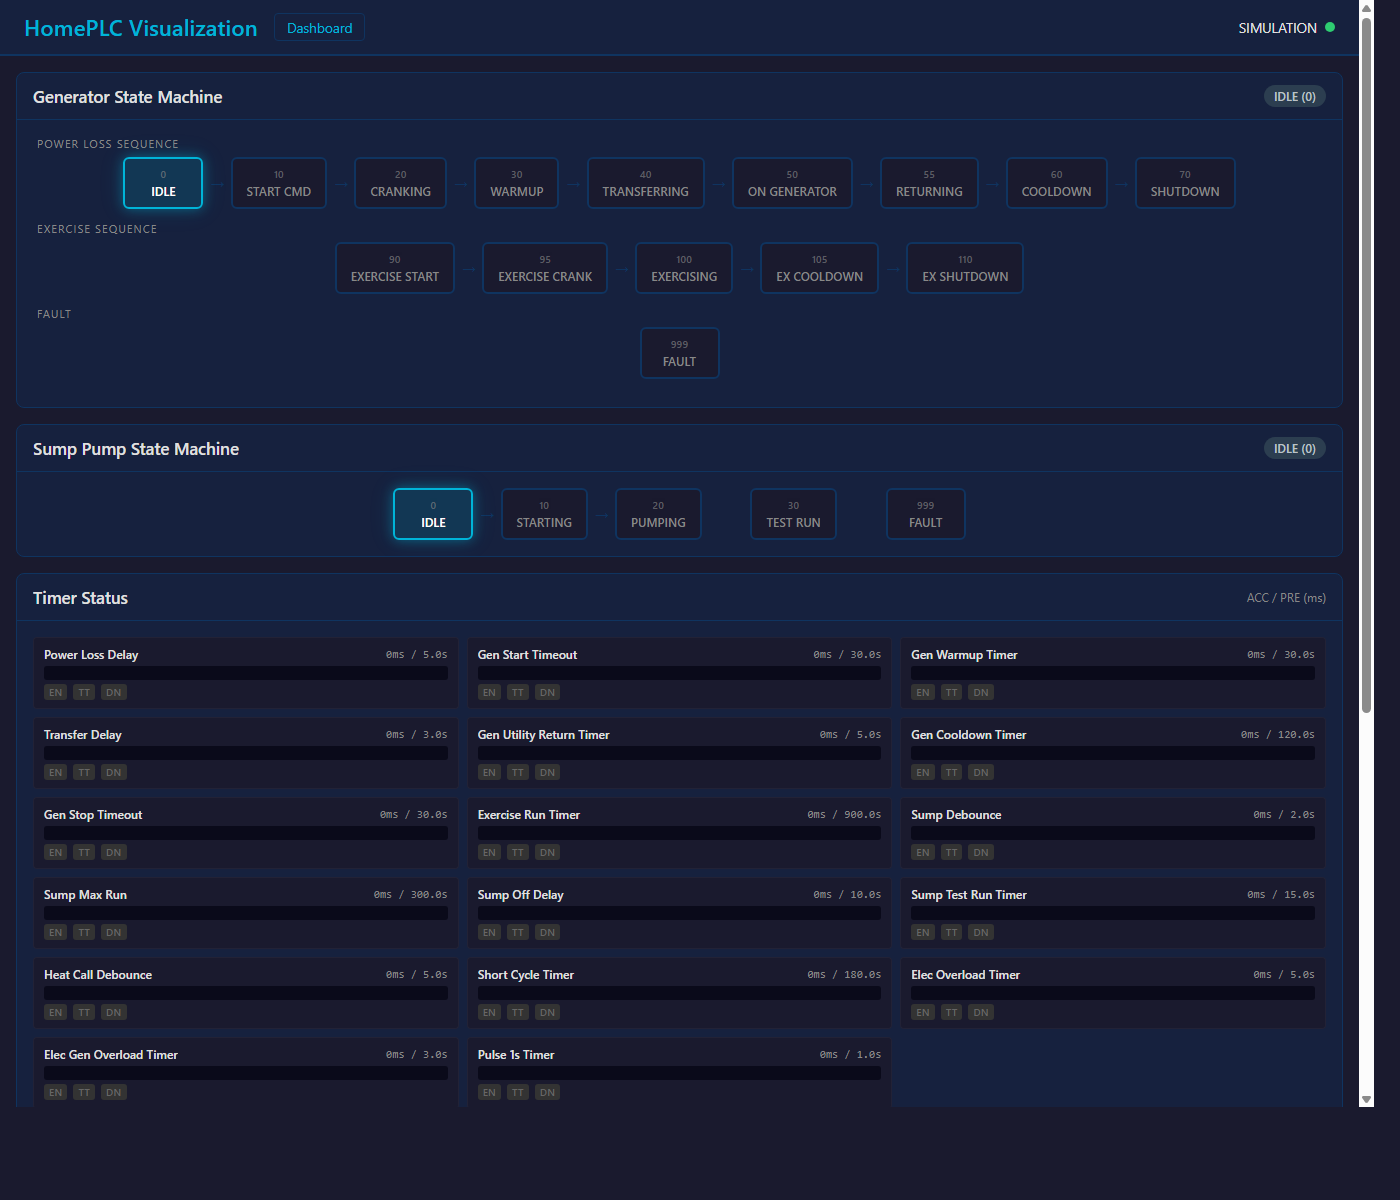
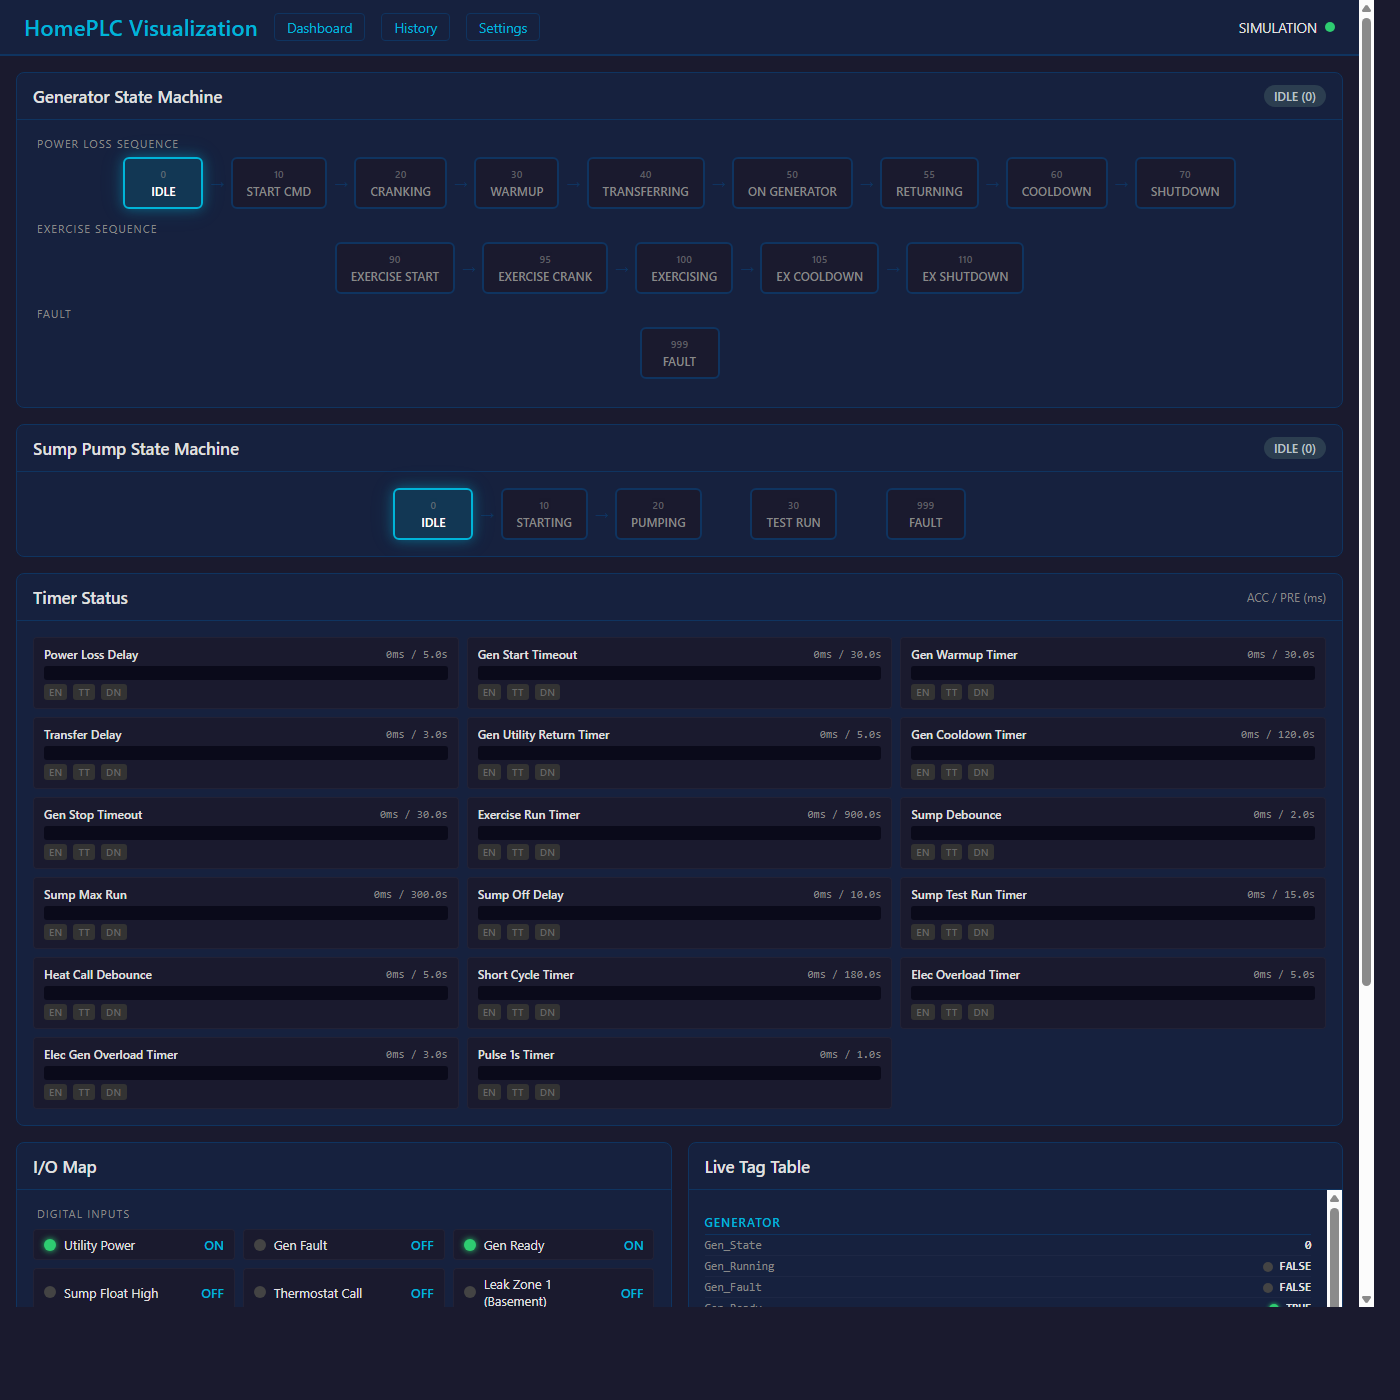
Update README with full feature documentation and new screenshots

diff --git a/README.md b/README.md
@@ -1,25 +1,166 @@
 # HomePLC HMI
 
-Web-based HMI for a residential CompactLogix PLC monitoring generator/ATS, sump pump, HVAC, outdoor temperature, and whole-house electrical.
+A complete home utility monitoring and control system built on an Allen-Bradley CompactLogix PLC with a web-based HMI. Monitors generator/ATS, sump pump, HVAC, electrical, water pressure, leak detection, and garage door — all from a browser on any device.
+
+Built by a controls engineer using Studio 5000 ladder logic, Python, and Flask.
 
 ## Screenshots
 
-### Dashboard (Simulation Mode)
+### Dashboard
 ![Dashboard](screenshots/dashboard.png)
 
 ### PLC Logic Visualization
 ![Visualization](screenshots/visualization.png)
 
-## What it does
-- Polls PLC tags over EtherNet/IP using pylogix
-- Displays live status, alarms, and runtime statistics in a dark-theme dashboard
-- HMI write commands for exercise triggers, fault resets, and filter hour resets
-- Built-in PLC simulator (no hardware needed) with adjustable I/O and timer speed
+### Historical Trends
+![History](screenshots/history.png)
+
+### Alert Configuration
+![Settings](screenshots/settings.png)
+
+## System Overview
+
+This project replaces a wall of indicator lights and a clipboard with a single web page. The PLC handles all the real-time control logic — the HMI just reads tags over EtherNet/IP and displays them. No cloud, no subscriptions, no internet required. Everything runs on your local network.
+
+### Generator / ATS Control
+Automatic standby generator management with a full state machine:
+- **Power loss detection** with configurable delay to ride through short outages
+- **Auto-start sequence** — crank attempts with timeout and fail detection
+- **Warmup timer** before transferring load via the ATS
+- **Auto-transfer** to generator power, return to utility when power is restored
+- **Cooldown cycle** before shutdown to protect the engine
+- **Weekly exercise scheduler** — configurable day, time, and duration so the generator runs itself on schedule
+- **Start/stop fail alarms** with HMI reset
+- **Total run hours** tracking
+
+### Sump Pump Monitoring
+Keeps your basement dry and tells you when something's wrong:
+- **Float switch monitoring** with debounce to filter noise
+- **Pump run tracking** — cycle count, total run hours, last run duration, current run timer
+- **Max run fault** — alarms if the pump runs too long (stuck float or failed check valve)
+- **Cycle rate alarm** — flags when the pump kicks on more than 10 times per hour, which usually means a failing check valve or rising water table
+- **Manual test mode** — run the pump on demand from the HMI to verify operation
+- **Maintenance reminder** at 500 cycles
+
+### HVAC / Furnace Monitoring
+Tracks your heating system and catches problems before they get expensive:
+- **Furnace run detection** from the thermostat W wire
+- **Cycle counting and run hours** — know exactly how hard your system is working
+- **Short cycle detection** — alarms when the furnace is cycling on/off too quickly, which can indicate a flame sensor issue, clogged filter, or oversized equipment
+- **Filter run hours** with change reminder so you never forget
+- **Efficiency tracking** — compares furnace runtime against heating degree-days. If the house needs more runtime for the same outdoor temperature, something is degrading (dirty filter, duct leak, insulation problem)
+
+### Outdoor Temperature
+Simple but useful:
+- **Live temperature** from a 4-20mA sensor scaled through the analog input module
+- **Daily min/max tracking** with manual reset
+- **Freeze warning** at 35°F — heads up to take precautions
+- **Freeze critical alarm** at 20°F — pipe freeze territory, act now
+
+### Whole-House Electrical
+Current transformer on the main feed gives you visibility into your power usage:
+- **Live amperage** with a visual power bar
+- **Peak amps tracking** with reset
+- **Estimated kWh** accumulation
+- **Overload alarm** — catches sustained high current draw
+- **Generator overload alarm** — separate threshold for when running on generator power
+- **Automatic load shedding** — when on generator and amps exceed the threshold for 10 seconds, relay outputs drop non-critical loads (HVAC, etc.) to protect the generator
+
+### Water Leak Detection
+Three moisture sensor zones with immediate alarming:
+- **Zone-based monitoring** — basement, utility room, bathroom (or wherever you place sensors)
+- **Latching alarms** — a leak alarm stays active until you manually acknowledge it, even if the sensor dries out. You don't want to miss a leak
+- **Any-zone alarm** for the banner and email alerts
+
+### Garage Door Monitor
+Simple mag switch tells you what you need to know:
+- **Open/closed status** with duration tracking
+- **Open too long alarm** — configurable threshold (default 30 minutes)
+- Door status visible from the dashboard without getting up to check
+
+### Well Pump / Water Pressure
+For homes on well water:
+- **Live water pressure** from a 4-20mA pressure transducer (0-100 PSI)
+- **Pump cycle tracking** — count and run duration
+- **Short cycle detection** — if the pump runs less than 30 seconds and cycles repeatedly, the bladder tank is likely waterlogged
+- **Low pressure alarm** — catches pump failure or supply issues
+
+### Maintenance Schedules
+Run-hour and cycle-based reminders so nothing gets missed:
+- **Generator oil change** — due at 200 run hours
+- **Sump pump inspection** — due at 500 cycles
+- **Furnace inspection** — due at 1000 run hours
+- Each has a progress bar showing hours/cycles remaining and a reset button after service
+
+### Historical Data Logging
+SQLite database logs 24 key tags every 60 seconds:
+- **Trend charts** with Chart.js — select any logged tag and view 1 hour to 30 days of history
+- **Multi-tag overlay** — compare outdoor temp vs furnace runtime, or current draw vs generator state
+- **Auto-purge** — keeps 90 days of data, cleans up automatically
+- Accessible at `/history`
+
+### Email / SMS Alerts
+Get notified when something needs attention:
+- **20 alarm types** monitored — generator faults, sump failures, leaks, freeze warnings, overloads, maintenance due
+- **SMTP email** with TLS — works with Gmail, Outlook, or any SMTP provider
+- **SMS via email-to-text** gateways (e.g., `5551234567@vtext.com` for Verizon)
+- **Cooldown timer** — won't spam you with the same alarm (default 30 minutes between repeats)
+- **Test button** to verify your email config works
+- Configure at `/settings`
 
 ## Hardware
-- Allen-Bradley 5069-L306ERM CompactLogix
-- 5069-IB16 (digital in), 5069-OB16 (digital out), 5069-IF8 (analog in)
-- 4-20mA sensors on 0-20mA range for outdoor temp and house current
+
+| Slot | Module | Purpose |
+|------|--------|---------|
+| 0 | 5069-L306ERM | CompactLogix controller |
+| 1 | 5069-IB16 | 16-point digital input (13 used) |
+| 2 | 5069-OB16 | 16-point digital output (6 used) |
+| 3 | 5069-IF8 | 8-channel analog input (3 used) |
+
+### I/O Allocation
+
+**Digital Inputs (Slot 1):**
+| Point | Signal |
+|-------|--------|
+| Pt00 | Utility power present |
+| Pt01 | Generator running feedback |
+| Pt02 | Generator fault |
+| Pt03 | Generator ready |
+| Pt04 | ATS utility position |
+| Pt05 | ATS generator position |
+| Pt06 | Sump pump float switch |
+| Pt07 | Thermostat W (heat call) |
+| Pt08 | Leak sensor zone 1 |
+| Pt09 | Leak sensor zone 2 |
+| Pt10 | Leak sensor zone 3 |
+| Pt11 | Garage door mag switch |
+| Pt12 | Well pump running |
+
+**Digital Outputs (Slot 2):**
+| Point | Signal |
+|-------|--------|
+| Pt00 | Generator start command |
+| Pt01 | ATS transfer command |
+| Pt02 | Sump pump run |
+| Pt03 | Load shed - HVAC |
+| Pt04 | Load shed - non-critical 1 |
+| Pt05 | Load shed - non-critical 2 |
+
+**Analog Inputs (Slot 3):**
+| Channel | Signal | Range |
+|---------|--------|-------|
+| Ch00 | Outdoor temperature | 4-20mA on 0-20mA (-40 to 120°F) |
+| Ch01 | House current (CT) | 4-20mA on 0-20mA (0-200A) |
+| Ch02 | Water pressure | 4-20mA on 0-20mA (0-100 PSI) |
+
+## PLC Program
+
+The Studio 5000 L5X project is in `studio5000/`. It contains:
+- **210 tags** (BOOL, DINT, REAL, TIMER)
+- **12 routines** — MainRoutine + 11 subroutines
+- `build_l5x.py` regenerates the L5X if you need to modify the ladder logic
+
+Import `HomePLC.L5X` into Studio 5000 Logix Designer v30+.
 
 ## Running
 
@@ -27,17 +168,27 @@ Web-based HMI for a residential CompactLogix PLC monitoring generator/ATS, sump 
 ```
 python app.py --sim
 ```
-Or double-click `run_sim.bat`.
+Or double-click `run_sim.bat`. The built-in simulator replicates all PLC logic in Python with adjustable timer speed (1x-50x).
 
 **Live mode** (connected to PLC):
 ```
 python app.py
 ```
-Edit `PLC_IP` in `app.py` to match your controller.
+Edit `PLC_IP` in `app.py` to match your controller's IP address.
 
-Open `http://localhost:5000` in any browser.
+**Pages:**
+| URL | Description |
+|-----|-------------|
+| `/` | Main dashboard |
+| `/viz` | PLC logic visualization (state machines, timers, I/O) |
+| `/history` | Historical trend charts |
+| `/settings` | Email alert configuration |
 
 ## Requirements
 - Python 3
 - Flask (`pip install flask`)
-- pylogix (`pip install pylogix`) - only needed for live mode
+- pylogix (`pip install pylogix`) — only needed for live mode
+
+## Deployment
+
+See [DEPLOY_PI.md](DEPLOY_PI.md) for step-by-step Raspberry Pi setup instructions, including auto-start on boot.
